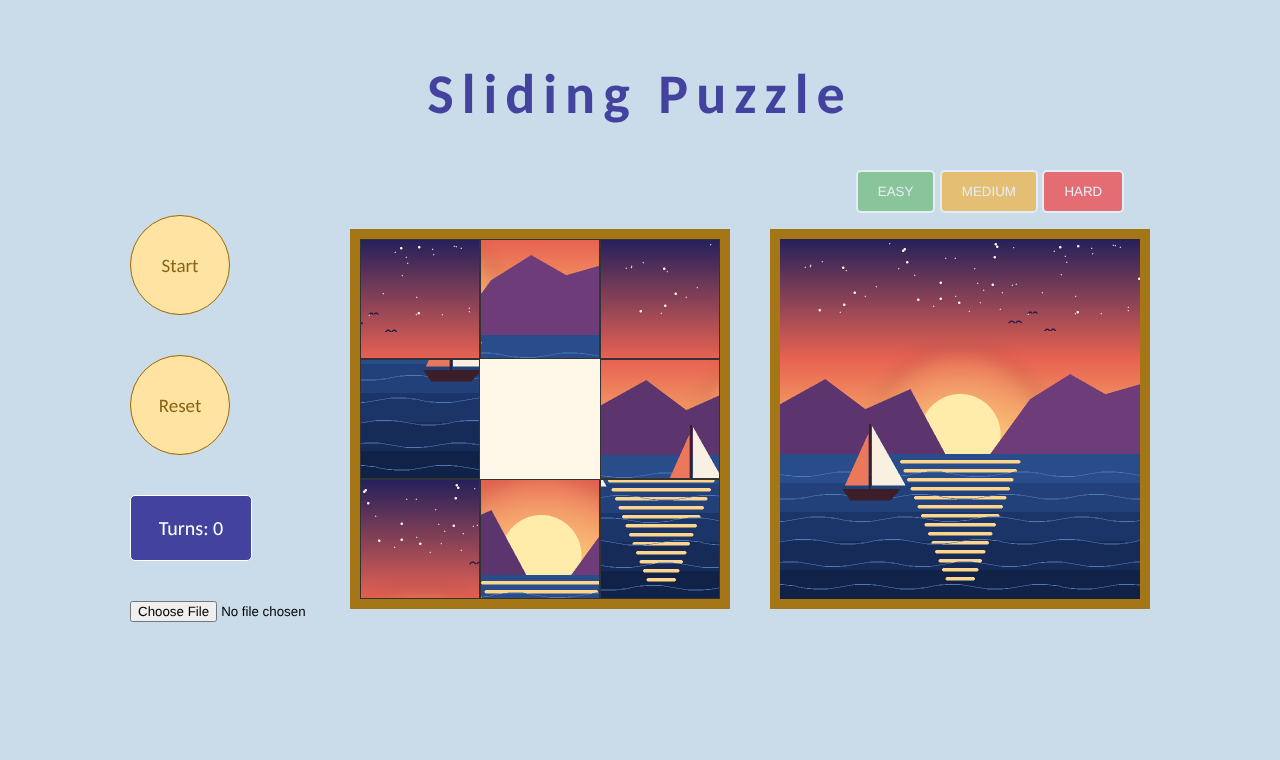
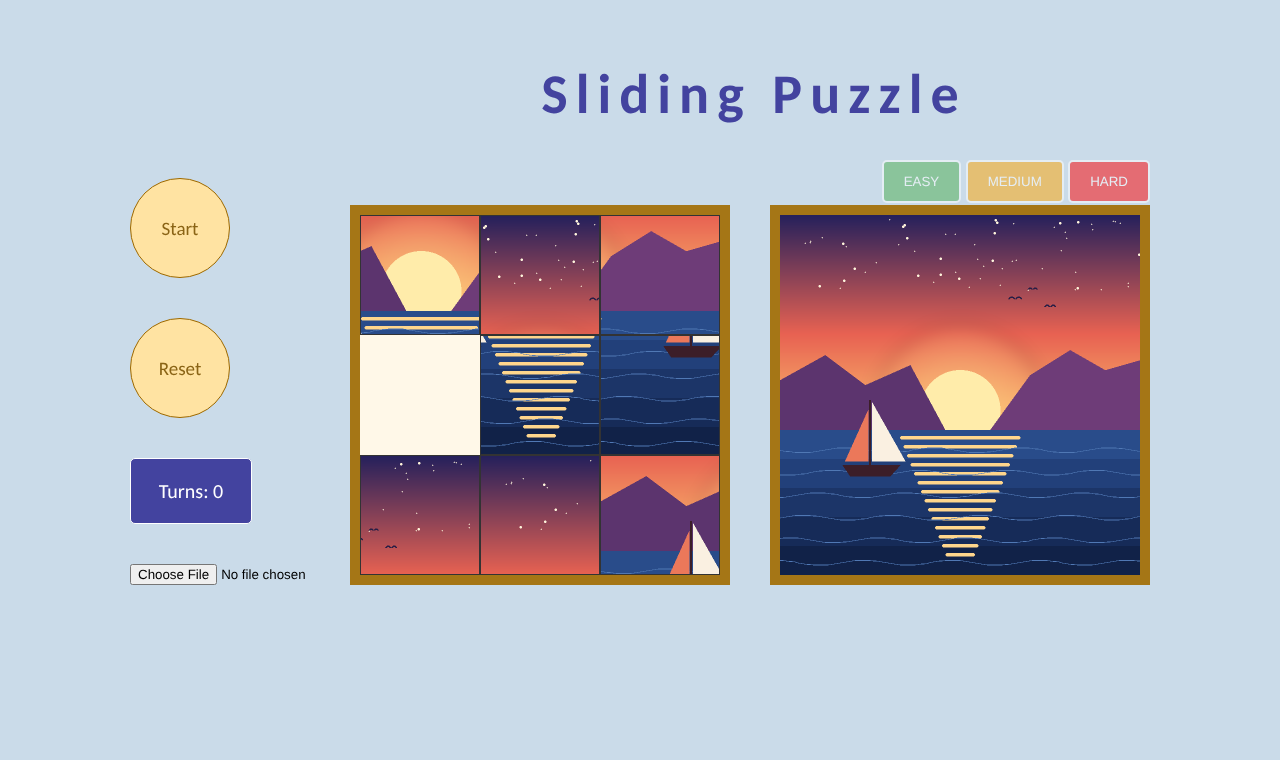
Center puzzle title over the boards and align level buttons

Changed region(s): [[0.0938, 0.2118, 0.9062, 0.8171], [0.3125, 0.0908, 0.75, 0.1816], [0.6562, 0.6961, 0.6875, 0.7263]]

diff --git a/puzzle/index.html b/puzzle/index.html
@@ -9,27 +9,27 @@
   </head>
   <body>
     <div class="container">
-      <div class="title">
-        <h1 class="gameTitle">Sliding Puzzle</h1>
-        <div class="levelBtnBox">
-          <button class="gameLevelBtn" id="easy" disabled>EASY</button>
-          <button class="gameLevelBtn" id="medium" disabled>MEDIUM</button>
-          <button class="gameLevelBtn" id="hard" disabled>HARD</button>
-        </div>
-      </div>
       <div class="box" id="box">
         <div class="leftContainer">
           <button class="btn" id="start">Start</button>
           <button class="btn" id="reset">Reset</button>
           <p class="turnText">Turns: <span id="turns">0</span></p>
         </div>
-  
-        <div class="rightContainer">
-          <div class="board" id="puzzleContainer">
-            <img class="puzzleImage" src="images/sunset.png" alt="Sunset over the sea" />
+
+        <div class="gameArea">
+          <h1 class="gameTitle">Sliding Puzzle</h1>
+          <div class="levelBtnBox">
+            <button class="gameLevelBtn" id="easy" disabled>EASY</button>
+            <button class="gameLevelBtn" id="medium" disabled>MEDIUM</button>
+            <button class="gameLevelBtn" id="hard" disabled>HARD</button>
           </div>
-          <div class="board">
-            <img class="puzzleImage" id="fixedImg" src="images/sunset.png" alt="Sunset over the sea" />
+          <div class="rightContainer">
+            <div class="board" id="puzzleContainer">
+              <img class="puzzleImage" src="images/sunset.png" alt="Sunset over the sea" />
+            </div>
+            <div class="board">
+              <img class="puzzleImage" id="fixedImg" src="images/sunset.png" alt="Sunset over the sea" />
+            </div>
           </div>
         </div>
       </div>

diff --git a/puzzle/puzzle.css b/puzzle/puzzle.css
@@ -15,12 +15,14 @@ body {
 .box {
   display: flex;
   justify-content: center;
-  align-items: center;
+  align-items: flex-end;
 }
 
-.title img {
-  width: 500px;
-  height: 250px;
+/* 標題、難度按鈕和兩個拼圖框放在同一欄，標題才會對準拼圖置中 */
+.gameArea {
+  display: flex;
+  flex-direction: column;
+  align-items: center;
 }
 
 .board {
@@ -72,8 +74,9 @@ body {
   justify-content: center;
   align-items: center;
 }
-.levelBtnBox{
-  margin-left: 700px;
+.levelBtnBox {
+  align-self: flex-end;
+  margin-right: 20px;
   margin-bottom: -30px;
 }
 
@@ -102,7 +105,7 @@ body {
 }
 
 .gameTitle {
-  padding: 60px 0 30px;
+  padding: 60px 0 20px 8px; /* 左邊補 8px，抵銷 letter-spacing 在最後一個字母後面多出的空間 */
   font-family: "Gill Sans", "Gill Sans MT", Calibri, "Trebuchet MS", sans-serif;
   font-size: 56px;
   letter-spacing: 8px;
